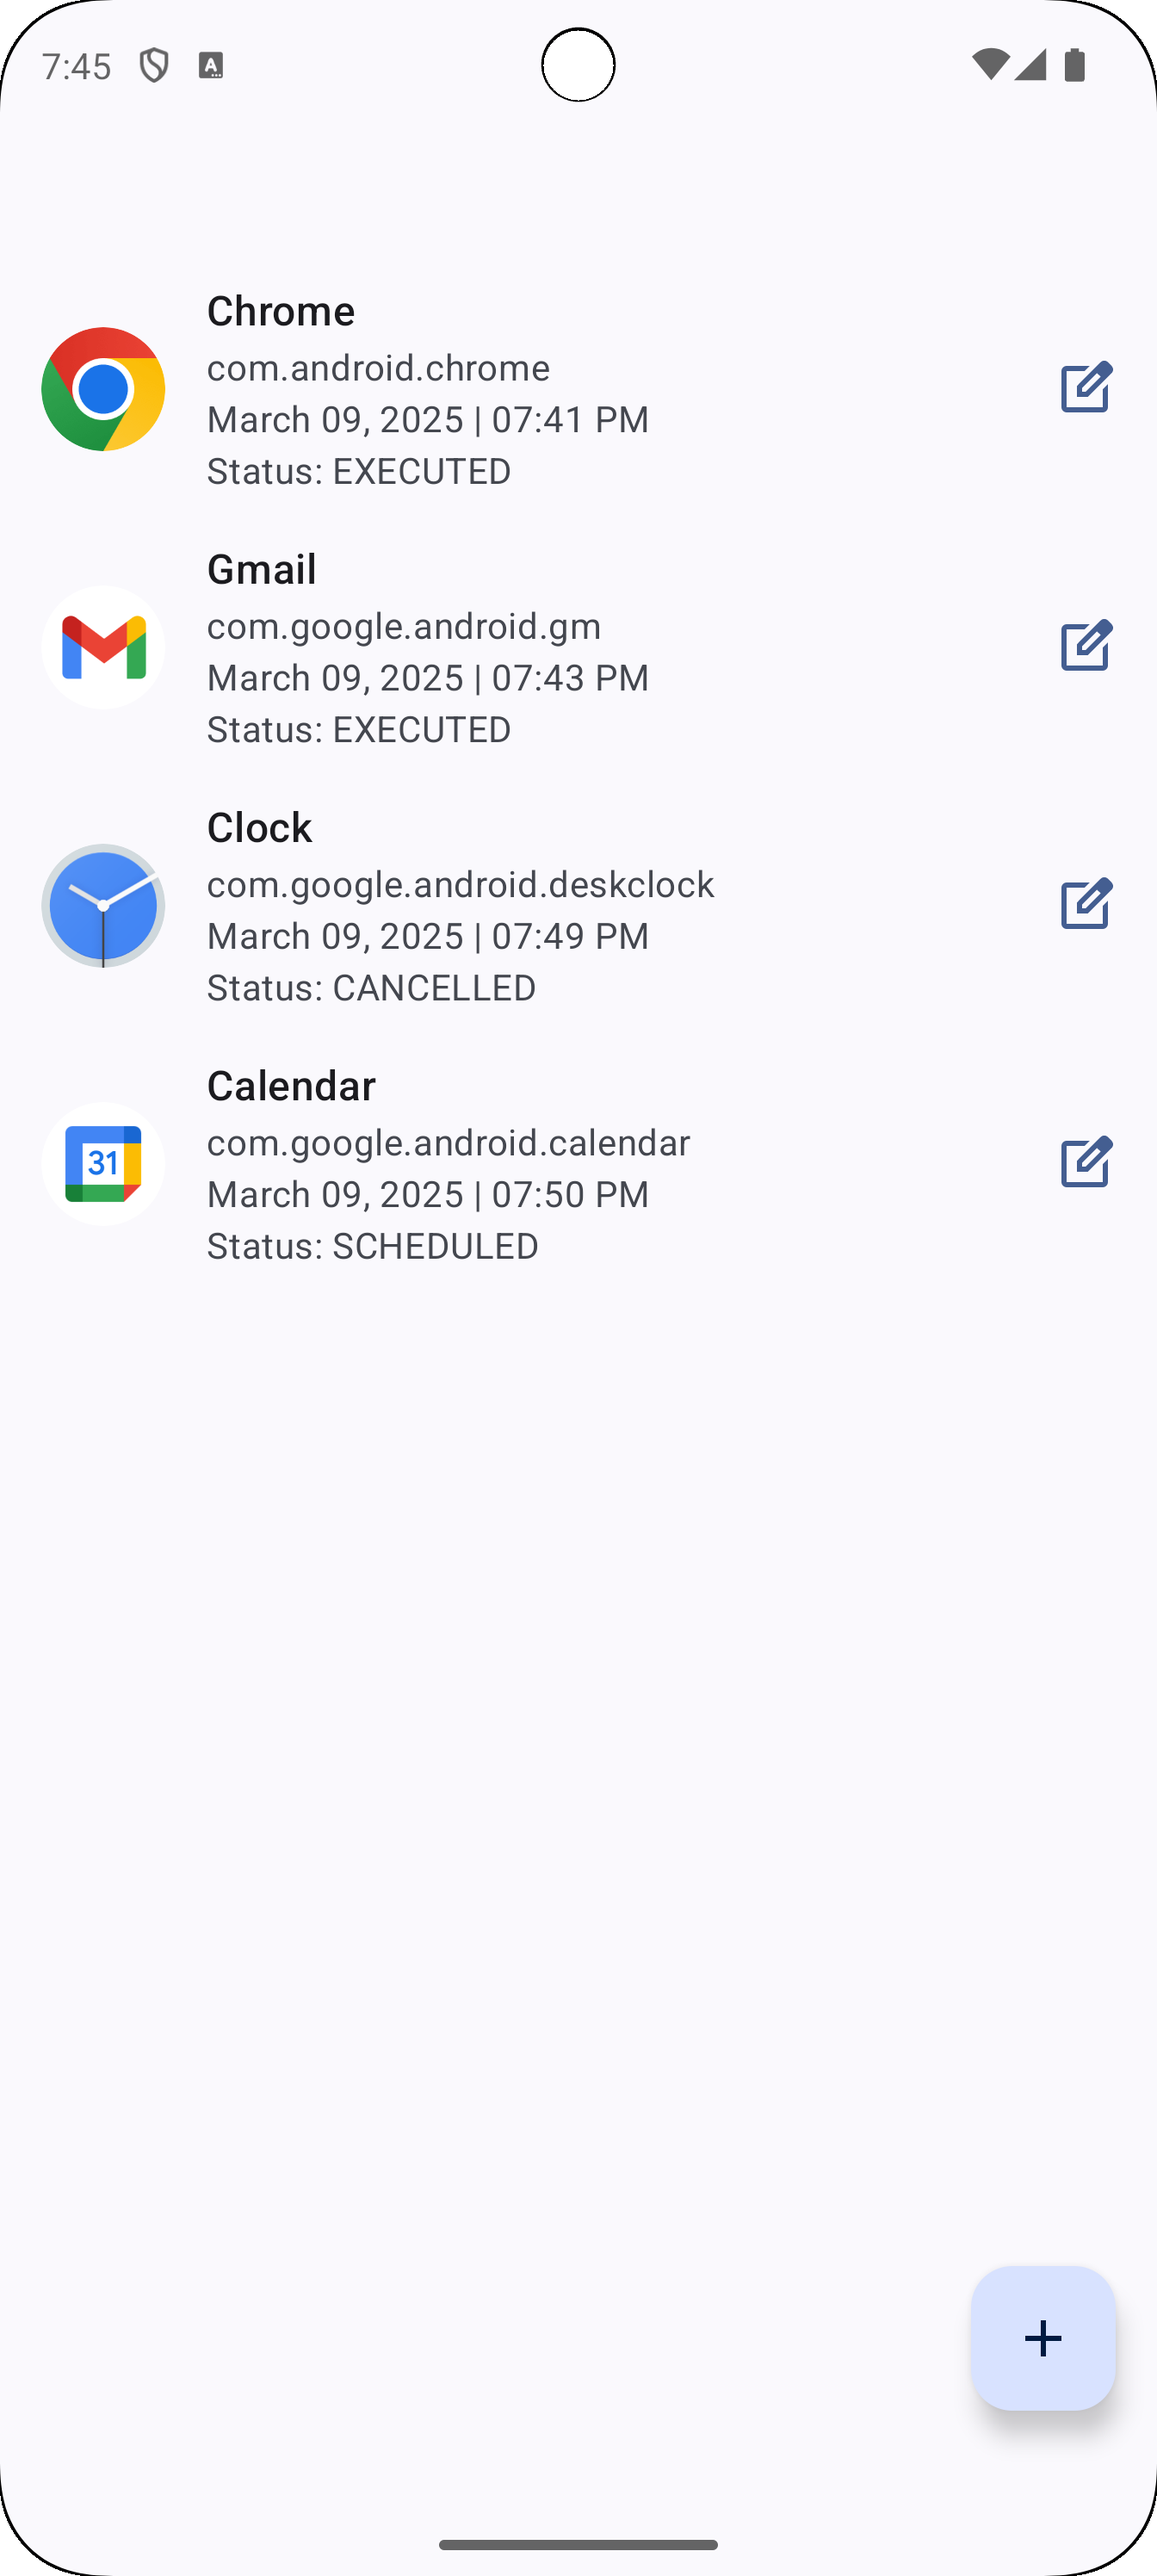
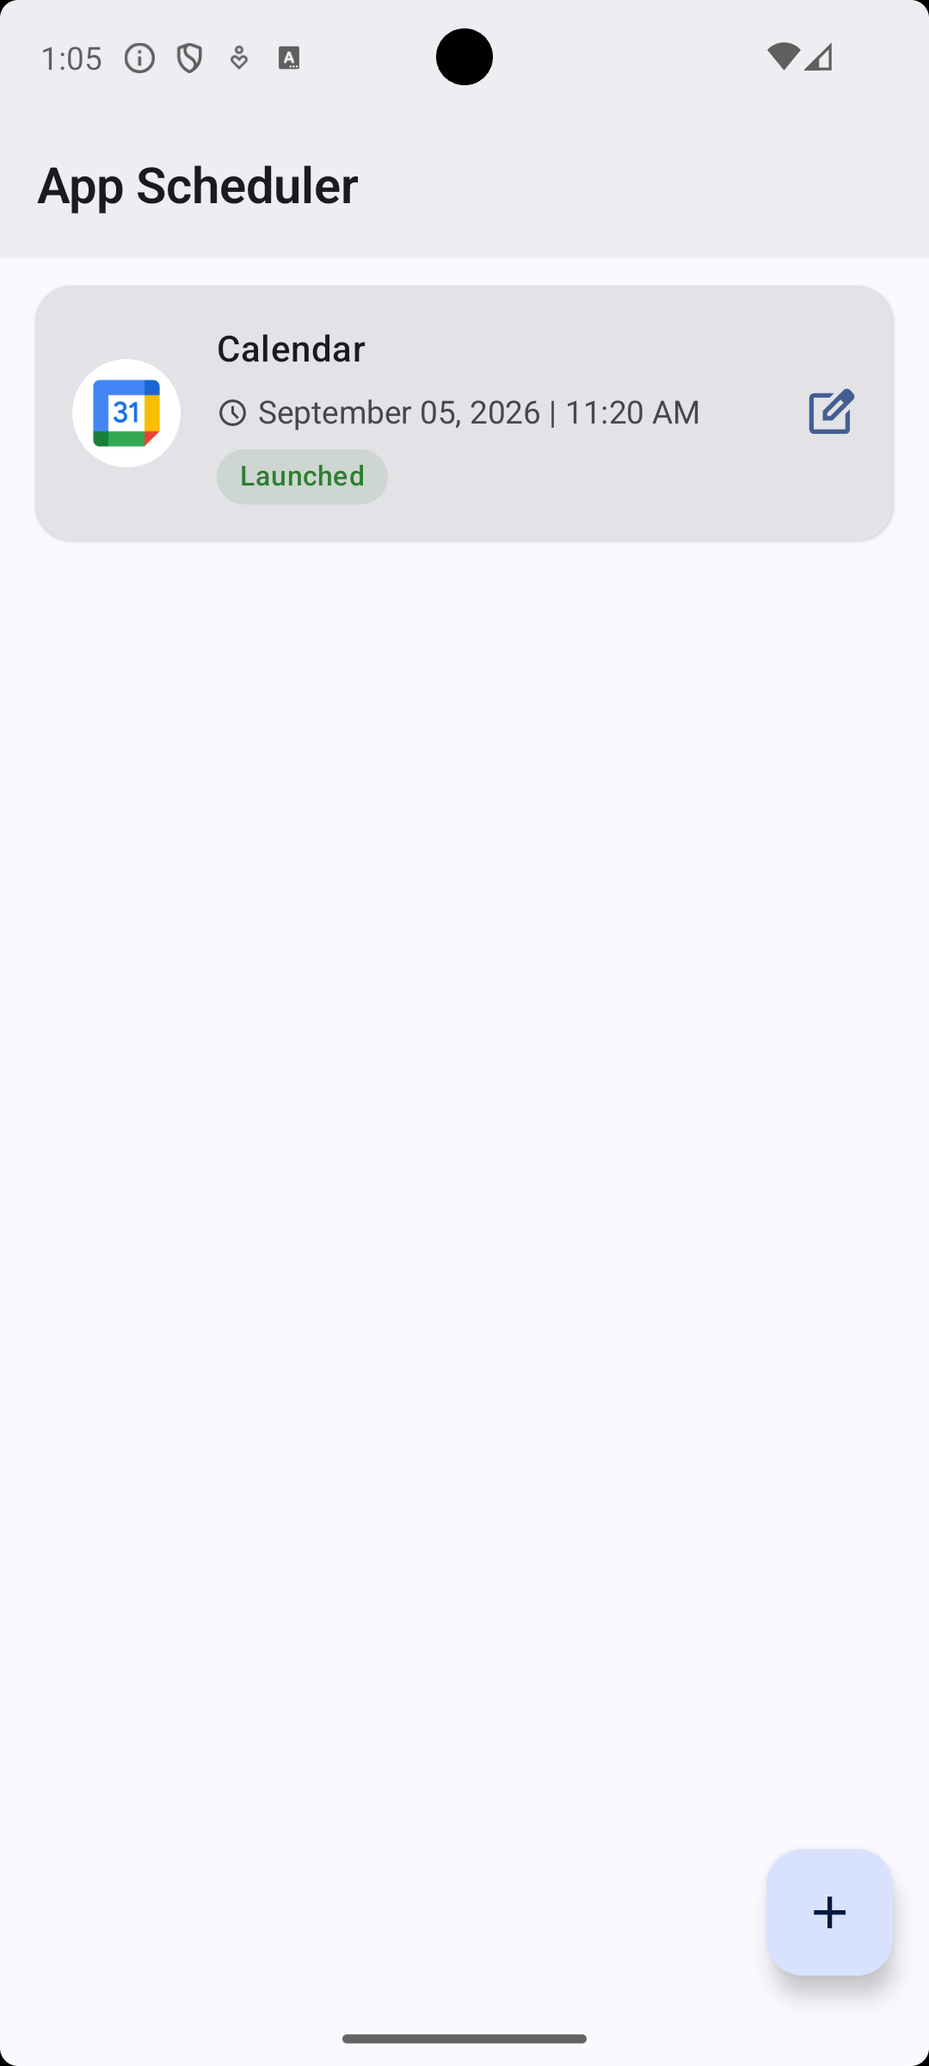
docs: rewrite README, remove Teams CI notification, refresh screenshots
- README.md now explains the actual scheduling mechanism (AlarmManager ->
  BroadcastReceiver -> foreground service, boot rescheduling), the Clean
  Architecture layering with package-by-package detail, an accurate tech
  stack table with real versions, per-permission rationale, and the CI setup.
  It had already been rewritten locally but never committed.
- .github/workflows/main.yml: removed the Microsoft Teams notification step.
  It was the only failing part of every recent CI run (TEAMS_WEBHOOK_URL
  isn't configured in this repo) even though the actual
  build/lint/test/artifact-upload steps all passed - confirmed via the
  GitHub Actions API before removing it. Renamed the workflow from "Android
  Build and Notify Teams" to "Android CI" now that it only builds/verifies.
- Screenshots updated to match the redesigned Material 3 UI (card-based
  lists, top app bars, status badges, search) instead of the pre-redesign
  plain-list screens.

diff --git a/README.md b/README.md
@@ -1,76 +1,178 @@
-# **App Schedule**
+# App Scheduler
 
-This Android application allows users to schedule any installed app to start at a specific time, cancel a scheduled start, or modify an existing schedule. The application supports multiple schedules for the same app.
+App Scheduler is a native Android app that launches any installed app for you at a date and
+time you choose. Set it up once — "open Camera at 7:00 AM" or "launch Chrome every workday at
+9:00" — and the schedule survives app restarts, backgrounding, and even a device reboot. It
+keeps a running history of every schedule (scheduled, launched, failed, or cancelled) so you
+always know what happened.
 
----
+## Screenshots
 
-## **✨ Features**
+<p align="center">
+  <img src="screenshots/img1.png" alt="Scheduled apps home screen" width="24%" />
+  <img src="screenshots/img2.png" alt="Installed-app picker" width="24%" />
+  <img src="screenshots/img3.png" alt="Create schedule screen" width="24%" />
+</p>
 
-- **Schedule App Launch** – Users can schedule any installed app to launch at a specific time.
-- **Cancel Schedule** – If the scheduled app has not yet started, users can cancel the schedule.
-- **Modify Schedule** – Users can change the time of an already scheduled app launch.
-- **Multiple Schedules** – The app supports multiple schedules without conflicts, ensuring smooth and efficient scheduling.
-- **Schedule History** – A record is kept of each schedule.
-- **Reschedule Apps on Boot** – If the device restarts, the app will automatically restore and reschedule any pending app launches to ensure they run as planned without user intervention.
+## Features
 
----
+- **Browse and search** every launchable app installed on the device.
+- **Schedule** an app to launch at a future date and time.
+- **Edit or cancel** a pending schedule at any time before it fires.
+- **Status tracking** for every schedule — `Scheduled`, `Launched`, `Failed`, or `Cancelled` —
+  shown with color-coded badges on the home screen.
+- **Conflict prevention** — you can't create two pending schedules for the exact same time.
+- **Survives reboot** — pending schedules are automatically re-armed after the device restarts.
+- **Doze-tolerant timing** — alarms use `setExactAndAllowWhileIdle`, so a schedule still fires on
+  time even if the device has gone idle.
+- **In-app feedback** via Material 3 snackbars, and system notifications while a launch is in
+  progress or if one fails.
+- Full **light and dark themes**, including Android 12+ dynamic color.
 
-## **🛠 Tools and Technologies Used**
+## How it works
 
-- **Jetpack Compose**
-- **Clean Architecture**
-- **MVI**
-- **Room Database**
-- **Compose Type-Safe Navigation**
-- **Dagger Hilt**
-- **Kotlin Coroutines & Flow**
-- **Desugar JDK Libs**
+App Scheduler's job is to reliably do one thing — start an app at a specific moment — even after
+the app that scheduled it has been closed. The flow:
 
----
+1. **Pick an app and a time.** The scheduler screen writes the schedule to a local Room database
+   and asks `AlarmManager` to fire a `setExactAndAllowWhileIdle` alarm for that instant.
+2. **The alarm fires** into `AppSchedulerReceiver`, a `BroadcastReceiver` that starts a short-lived
+   foreground service (`AppLaunchService`).
+3. **The service launches the target app** via `PackageManager.getLaunchIntentForPackage`, updates
+   the schedule's status in the database, and shows a notification if the app couldn't be started
+   (for example, if it was uninstalled in the meantime).
+4. **On device boot**, `AppSchedulerReceiver` starts `RescheduleService`, which reads every still-
+   pending schedule from Room and re-arms its alarm — so a reboot never silently drops a schedule.
 
-## **📂 App Package Structure**
+Everything after step 1 runs independently of the app's UI process, which is why the permissions
+below exist.
 
-```plaintext
-📂 app
-├── 📂 manifests
-│   └── 📄 AndroidManifest.xml
-├── 📂 kotlin+java
-│   └── 📂 com.peal.appscheduler
-│       ├── 📂 data
-│       │   ├── 📂 local
-│       │   │   ├── 📂 model
-│       │   │   │   ├── 📝 ScheduleEntity.kt
-│       │   │   ├── 📝 ScheduleDao.kt
-│       │   │   ├── 📝 SchedulerAppDatabase.kt
-│       │   ├── 📂 mappers
-│       │   │   ├── 📝 ScheduleMappers.kt
-│       │   ├── 📂 repositoryImpl
-│       │   ├── 📂 wrapper
-│       ├── 📂 di
-│       │   ├── 📝 AppModule.kt
-│       │   ├── 📝 DatabaseModule.kt
-│       │   ├── 📝 RepositoryModule.kt
-│       ├── 📂 domain
-│       │   ├── 📂 enums
-│       │   ├── 📂 mappers
-│       │   ├── 📂 model
-│       │   ├── 📂 repository
-│       │   ├── 📂 usecase
-│       │   ├── 📂 utils
-│       ├── 📂 ui
-│       │   ├── 📂 model
-│       │   ├── 📂 navigation
-│       │   ├── 📂 screens
-│       │   ├── 📂 theme
-│       ├── 📂 service
-│       └── 📂 receiver
+## Architecture
+
+The codebase follows a conventional Clean Architecture split, with each screen built as an
+MVI-style contract (`State` / `Intent` / `Effect`):
 
 ```
+UI (Compose)  →  ViewModel  →  UseCase (domain)  →  Repository (domain interface)  →  Room / AlarmManager / PackageManager
+```
 
-### **<u>ScreenShots</u>**
-<p align="center"> <img src="screenshots/img1.png" alt="Screenshot 1" width="24%"/> <img src="screenshots/img2.png" alt="Screenshot 2" width="24%"/> <img src="screenshots/img3.png" alt="Screenshot 3" width="24%"/> </p>
+- **`ui/`** — Compose screens, navigation (Navigation 3, type-safe routes), shared components,
+  and theme. Each screen is split into a stateful `*Route` composable and a stateless, previewable
+  screen composable.
+- **`domain/`** — Models, repository interfaces, and use cases. This is where business rules live
+  (for example, rejecting a schedule that conflicts with an existing one, or one that's in the past).
+- **`data/`** — Room database and DAO, entity mappers, and the concrete repository implementations
+  the domain layer depends on.
+- **`di/`** — Hilt modules wiring the graph together.
+- **`receiver/`** and **`service/`** — the `BroadcastReceiver` and foreground services that make
+  scheduling work outside the app's UI lifecycle (see "How it works" above).
+- **`core/`** — small utilities shared across layers (a typed `Result`, lifecycle-aware event
+  collection for Compose).
 
+```text
+app/src/main/java/com/peal/appscheduler
+├── core/        # Shared domain and presentation utilities
+├── data/        # Room database, mappers, and repository implementations
+├── di/          # Hilt modules
+├── domain/      # Models, repositories, and use cases
+├── receiver/    # Alarm and boot broadcasts
+├── service/     # App-launch and boot-rescheduling foreground services
+└── ui/          # Compose screens, navigation, components, and theme
+```
 
-### **Demo Video link**
-[Watch Demo Video](https://drive.google.com/file/d/1DuLzio6waWi4rietamQvxkGViri4b7dE/view?usp=sharing)
+## Tech stack
 
+| | |
+|---|---|
+| Language | Kotlin 2.0 |
+| UI | Jetpack Compose, Material 3 (BOM 2024.12.01) |
+| Navigation | Navigation 3, type-safe `@Serializable` routes |
+| DI | Hilt 2.52 |
+| Persistence | Room 2.6.1 |
+| Async | Kotlin Coroutines & Flow (1.9.0) |
+| Serialization | kotlinx.serialization |
+| Scheduling | `AlarmManager` (exact, idle-tolerant) + foreground services |
+| Build | AGP 8.13.1, Gradle 8.14 |
+
+## Requirements
+
+- Android Studio (current stable release recommended)
+- JDK 17
+- Android SDK 36 to compile the project
+- A device or emulator running Android 7.0 (API 24) or newer
+
+The app targets Android 16 (API 36) and has a minimum SDK of API 24.
+
+## Get started
+
+1. Clone the repository and open it in Android Studio.
+2. Allow Gradle to sync and install the required Android SDK platform if prompted.
+3. Connect a device or start an emulator.
+4. Run the `app` configuration, or use the command line:
+
+   ```bash
+   ./gradlew installDebug
+   ```
+
+To build an APK without installing it:
+
+```bash
+./gradlew assembleDebug
+```
+
+The debug APK is generated at `app/build/outputs/apk/debug/app-debug.apk`.
+
+For a release build, R8 shrinking and obfuscation are enabled
+(`./gradlew assembleRelease`); the output is unsigned, so a signing config
+must be supplied before distributing it.
+
+## Permissions and device behavior
+
+App Scheduler asks for the access it needs as you use it, not all at once on first launch:
+
+| Permission | Why it's needed |
+|---|---|
+| **Schedule exact alarms** | Required on Android 12+ so schedules fire at the exact selected time rather than being batched by the system. |
+| **Display over other apps** | Lets the app-launch service bring the target app to the foreground from the background when its scheduled time arrives, without the user having tapped anything first. |
+| **Notifications** | Reports launch and rescheduling activity (for example, when a scheduled app couldn't be started). Requested on Android 13+. |
+| **Receive boot completed** | Lets pending schedules be re-armed automatically after the device restarts. |
+
+Each permission is requested contextually, with a rationale dialog, and the app remains usable if
+one is declined — though a declined "exact alarms" or "display over other apps" permission will
+prevent that particular schedule from firing. The app can only schedule activities that the
+Android package manager exposes as launchable; device-specific battery optimizations and
+background-activity restrictions may also affect whether a selected app can be brought to the
+foreground.
+
+## Testing
+
+Run local (JVM) unit tests:
+
+```bash
+./gradlew testDebugUnitTest
+```
+
+Run instrumented tests on a connected device or emulator:
+
+```bash
+./gradlew connectedDebugAndroidTest
+```
+
+The unit test suite covers the scheduling and cancellation use cases (including alarm-failure and
+time-conflict handling), date/time utilities, and ViewModels for the scheduler and device-apps
+screens, using fakes rather than mocks for repository dependencies. The instrumented suite covers
+Room DAO behavior.
+
+## Continuous integration
+
+Every push and pull request to `main` runs through GitHub Actions
+(`.github/workflows/main.yml`): `assembleDebug`, `lintDebug`, and `testDebugUnitTest` all have to
+pass, and the resulting debug APK is uploaded as a build artifact on `main`.
+
+## Demo
+
+[Watch the demo video](https://drive.google.com/file/d/1DuLzio6waWi4rietamQvxkGViri4b7dE/view?usp=sharing)
+
+## License
+
+This project is licensed under the [MIT License](LICENSE).
